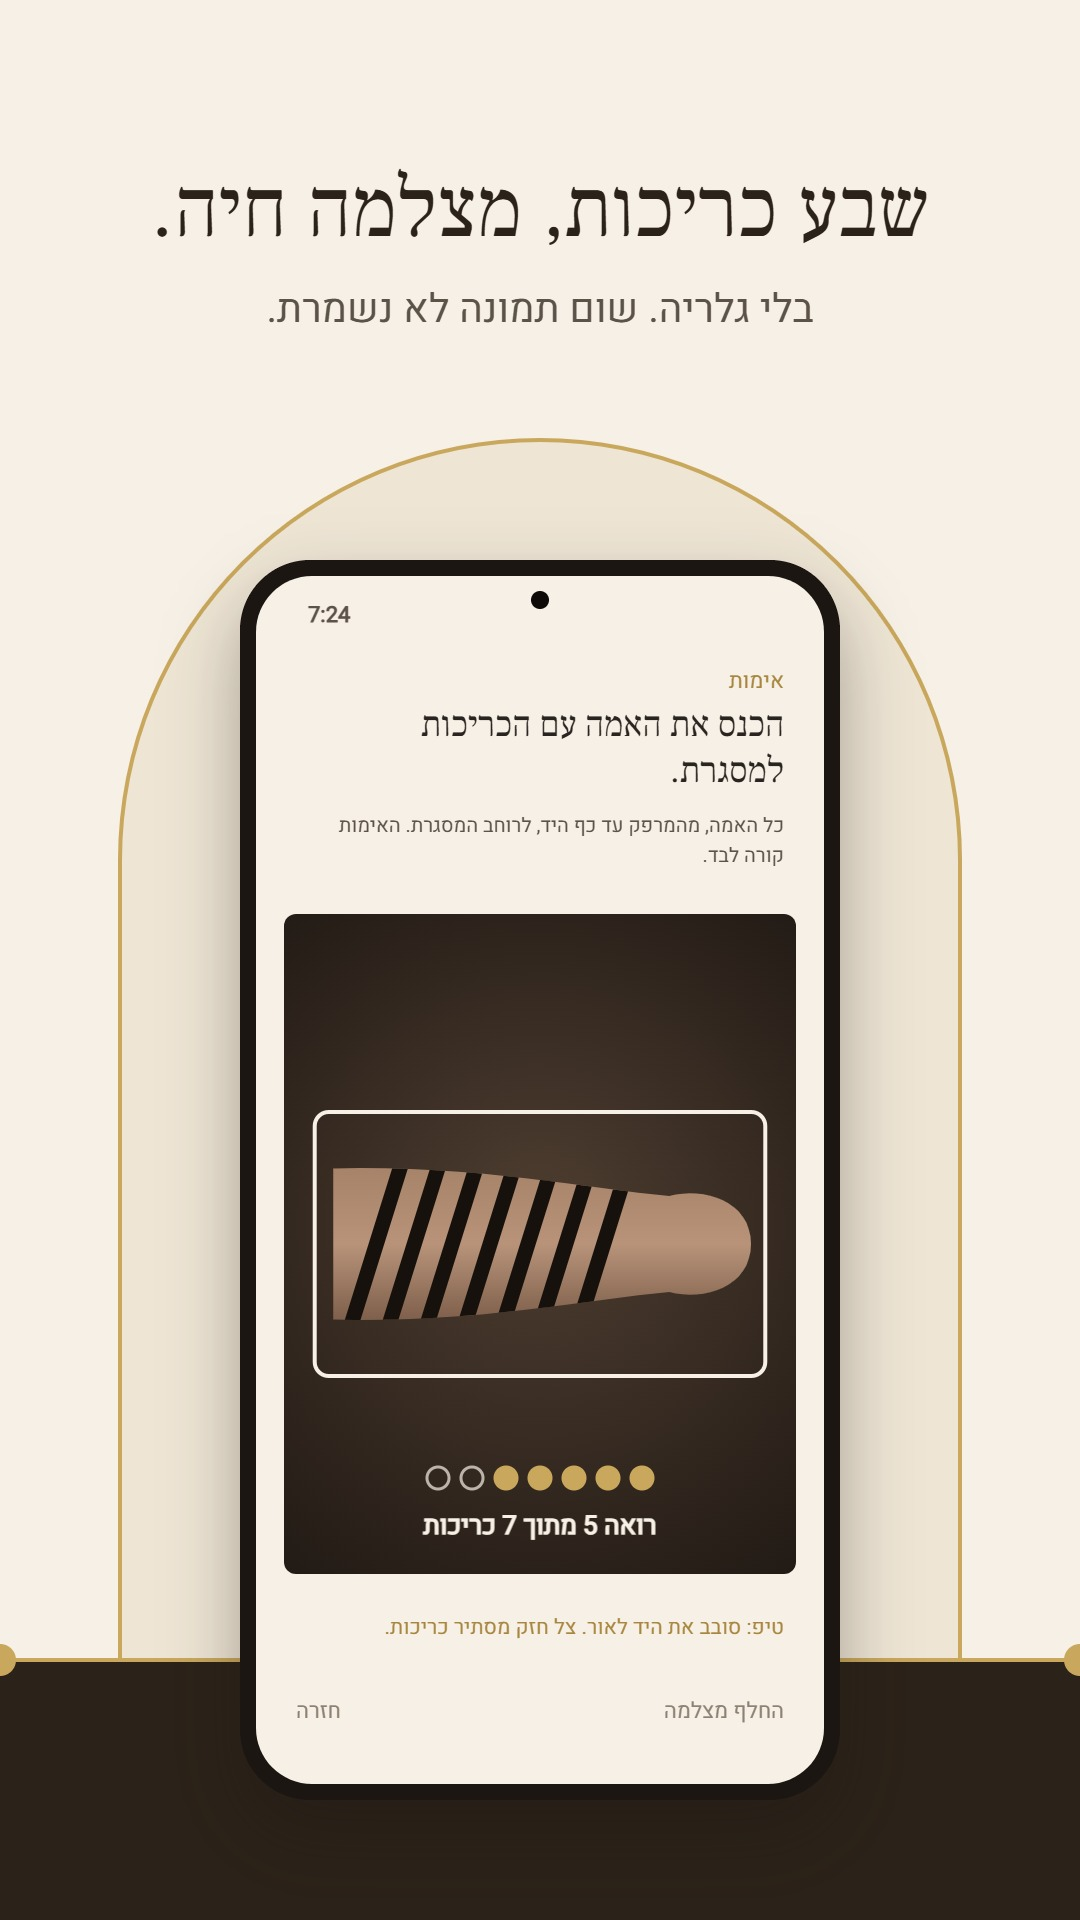
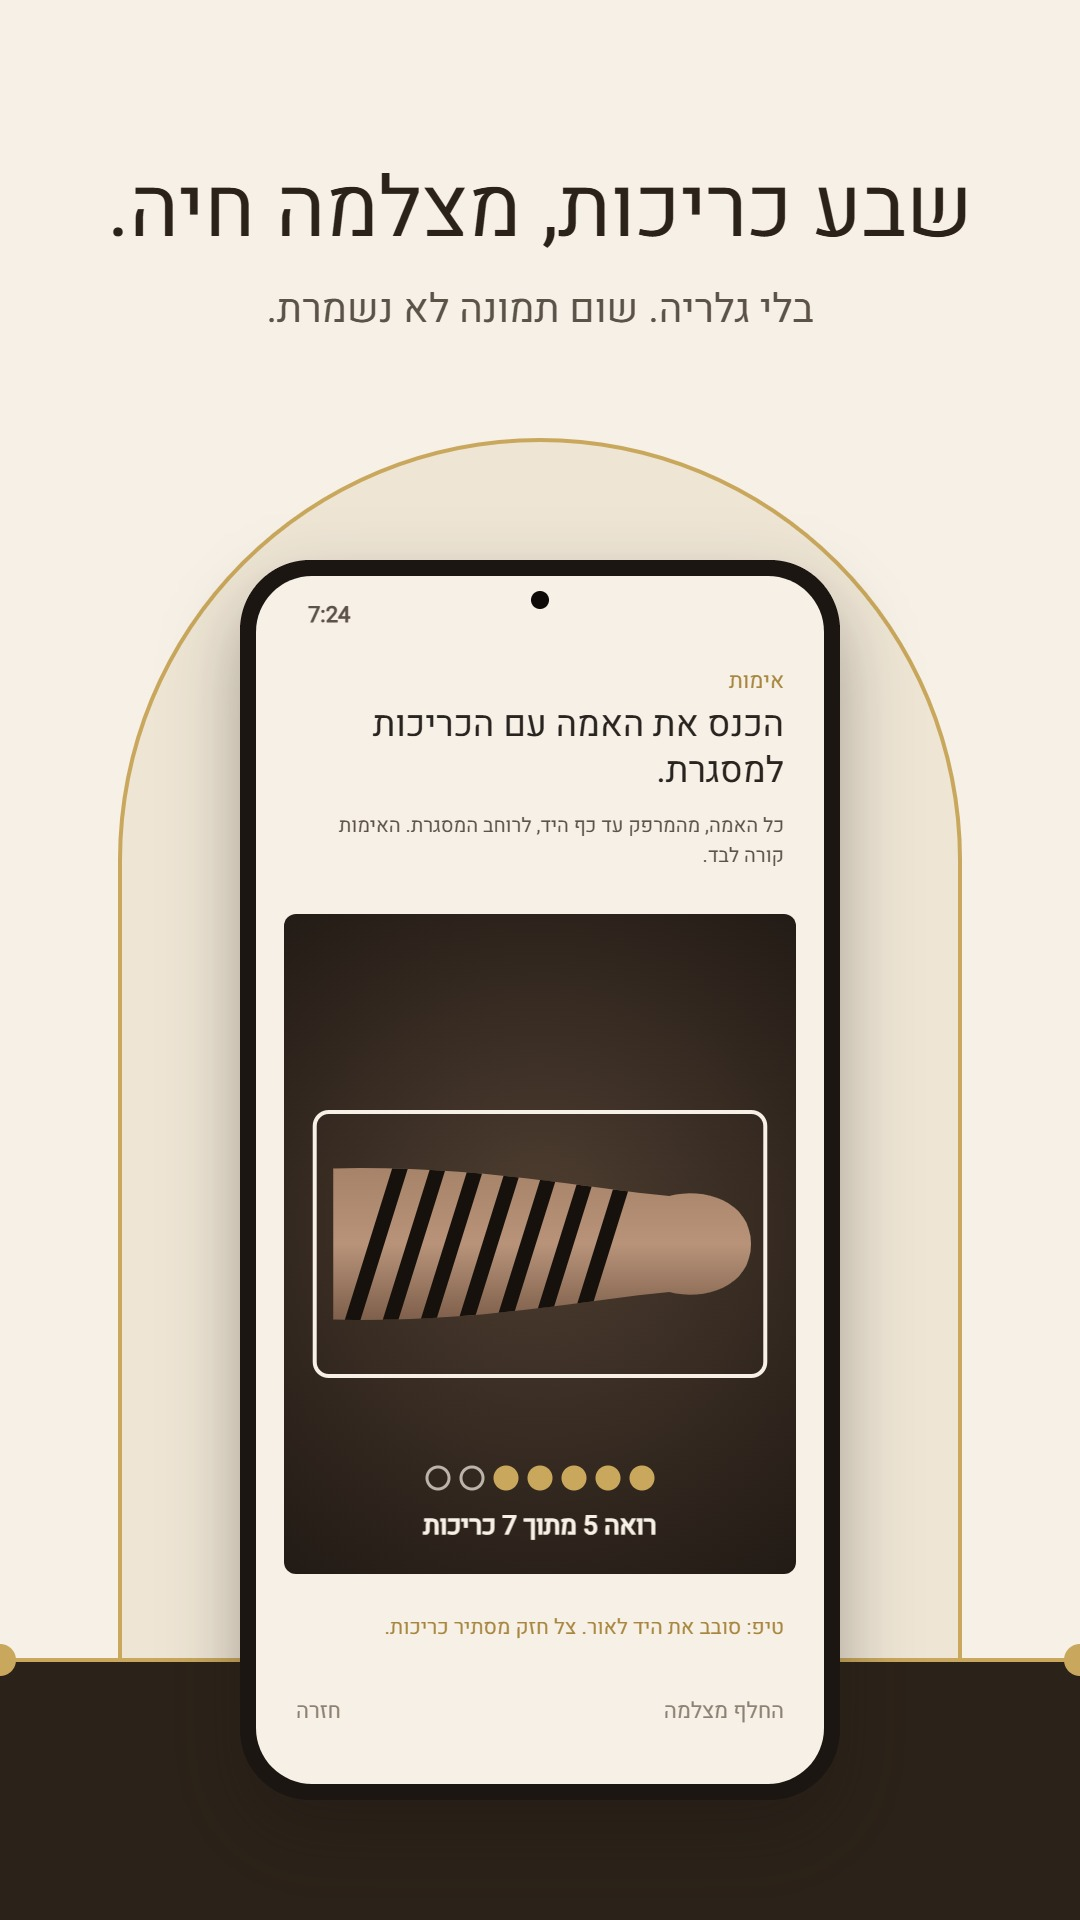
One font in every page, the siddur too: prayer text in Heebo (it covers all niqqud; neither font had cantillation), Frank Ruhl removed from the app; kept in art/fonts for ads only; store strip in Heebo; v2.8.3

diff --git a/store/strip.html b/store/strip.html
@@ -140,7 +140,7 @@ function lockScreen(s) {
   text("יום רביעי", cx, s.y + 112, f(22, 500), P.GoldDeep);
   darkArch(cx, s.y + 140, 150, 184);
   lock(cx, s.y + 240, 64, 0);
-  let y = para("עוד לא הנחת תפילין היום.", cx, s.y + 400, f(44, 500, SERIF), P.Ink, 470, 54);
+  let y = para("עוד לא הנחת תפילין היום.", cx, s.y + 400, f(44, 500, SANS), P.Ink, 470, 54);
   y = para("הטלפון סגור עד שמראים למצלמה את האמה עם הכריכות.", cx, y + 14, f(24), P.InkSoft, 470, 36);
   // the arc
   const aw = 470, ah = 92, ax = cx - aw / 2, ay = y + 40;
@@ -186,7 +186,7 @@ function arm(bx, by, bw, bh) {
 function verifyScreen(s, verified) {
   const cx = s.x + s.w / 2, r = s.x + s.w - 40;
   text("אימות", r, s.y + 112, f(22, 500), P.GoldDeep, "right");
-  let y = para("הכנס את האמה עם הכריכות למסגרת.", r, s.y + 160, f(36, 500, SERIF), P.Ink, 480, 46, "right");
+  let y = para("הכנס את האמה עם הכריכות למסגרת.", r, s.y + 160, f(36, 500, SANS), P.Ink, 480, 46, "right");
   y = para("כל האמה, מהמרפק עד כף היד, לרוחב המסגרת. האימות קורה לבד.", r, y + 4, f(20), P.InkSoft, 480, 30, "right");
   const bx = s.x + 28, by = y + 22, bw = s.w - 56, bh = s.h - (y + 22 - s.y) - 210;
   x.save(); rr(bx, by, bw, bh, 12); x.clip();
@@ -199,7 +199,7 @@ function verifyScreen(s, verified) {
     x.fillStyle = P.ChocolateDeep; x.fillRect(bx, by, bw, bh);
     darkArch(cx, by + bh / 2 - 250, 170, 208);
     lock(cx, by + bh / 2 - 130, 80, 1);
-    text("הנחת. יום טוב.", cx, by + bh / 2 + 70, f(46, 500, SERIF), P.Cream);
+    text("הנחת. יום טוב.", cx, by + bh / 2 + 70, f(46, 500, SANS), P.Cream);
     text("זוהו 7 כריכות על האמה.", cx, by + bh / 2 + 122, f(24), P.CreamDeep);
   } else {
     rr(gx, gy, gw, gh, 14); x.strokeStyle = P.Cream; x.lineWidth = 4; x.stroke();
@@ -226,7 +226,7 @@ function homeScreen(s) {
   // top bar: time chip on the right (start in RTL), title in the middle, gear on the left
   rr(R - 94, s.y + 74, 94, 46, 14); x.fillStyle = P.CreamDeep; x.fill(); x.strokeStyle = P.Sand; x.lineWidth = 2; x.stroke();
   text("07:24", R - 47, s.y + 105, f(20, 600), P.InkSoft);
-  text("בוקר אור", cx, s.y + 108, f(32, 500, SERIF), P.Ink);
+  text("בוקר אור", cx, s.y + 108, f(32, 500, SANS), P.Ink);
   dot(L + 26, s.y + 97, 23, P.CreamDeep, P.Sand, 2); dot(L + 26, s.y + 97, 8, null, P.Ink, 3);
   text("יום רביעי", cx, s.y + 160, f(19, 500), P.GoldDeep);
   // hero card
@@ -234,7 +234,7 @@ function homeScreen(s) {
   rr(L, hy, R - L, hh, 34); x.fillStyle = P.Cream; x.fill(); x.strokeStyle = P.Gold; x.lineWidth = 2.5; x.stroke();
   darkArch(cx, hy + 26, 116, 144);
   lock(cx, hy + 104, 50, 1);
-  text("הנחת. היום שלך.", cx, hy + 222, f(32, 500, SERIF), P.Ink);
+  text("הנחת. היום שלך.", cx, hy + 222, f(32, 500, SANS), P.Ink);
   text("האימות עבר, והטלפון פתוח עד מחר בבוקר.", cx, hy + 262, f(19), P.InkSoft);
   darkButton(cx, hy + 288, R - L - 44, 62, "אושר להיום");
   // calendar card
@@ -246,7 +246,7 @@ function homeScreen(s) {
   x.moveTo(fx, fy - 18); x.bezierCurveTo(fx + 14, fy - 4, fx + 12, fy + 14, fx, fy + 16);
   x.bezierCurveTo(fx - 12, fy + 14, fx - 14, fy - 2, fx - 4, fy - 8); x.closePath(); x.fill(); x.restore();
   text("הרצף שלך", R - 70, cy0 + 60, f(23, 600), P.Ink, "right");
-  text("23 ימים", L + 24, cy0 + 62, f(30, 500, SERIF), P.GoldDeep, "left");
+  text("23 ימים", L + 24, cy0 + 62, f(30, 500, SANS), P.GoldDeep, "left");
   const letters = ["א", "ב", "ג", "ד", "ה", "ו", "ש"];
   const colW = (R - L - 40) / 7;
   const colX = i => R - 20 - colW * (i + 0.5); // Sunday on the right
@@ -289,7 +289,7 @@ function widgetScreen(s) {
   rr(wx, wy, ww, wh, 34); x.fillStyle = P.Chocolate; x.fill(); x.restore();
   rr(wx, wy, ww, wh, 34); x.strokeStyle = P.Gold; x.lineWidth = 2.5; x.stroke();
   text("וּקְשַׁרְתָּם", cx, wy + 62, f(22, 500), P.Gold);
-  text("עוד לא הנחת", cx, wy + 136, f(48, 500, SERIF), P.Cream);
+  text("עוד לא הנחת", cx, wy + 136, f(48, 500, SANS), P.Cream);
   text("נשארו 2 דחיות  ●●○", cx, wy + 190, f(24), P.Sand);
   text("רצף: 23 ימים", cx, wy + 248, f(24, 500), P.GoldSoft);
   // app icons, generic
@@ -327,7 +327,7 @@ function render() {
     archPath(ox + 120, 440, 840, BASE - 440);
     x.fillStyle = P.CreamDeep; x.fill();
     x.strokeStyle = P.Gold; x.lineWidth = 4; x.stroke();
-    text(fr.h, cx, 236, f(84, 500, SERIF), P.Chocolate);
+    text(fr.h, cx, 236, f(84, 500, SANS), P.Chocolate);
     text(fr.sub, cx, 322, f(40), P.InkSoft);
   });
   x.fillStyle = P.Gold; x.fillRect(0, BASE - 2, W * N, 4);

diff --git a/app/src/main/java/app/henachti/ui/Theme.kt b/app/src/main/java/app/henachti/ui/Theme.kt
@@ -45,14 +45,7 @@ object Palette {
     val Bronze: Color get() = GoldDeep
 }
 
-/** Frank Ruhl Libre for titles, Heebo for everything else. Both bundled, both variable weight. */
-val Serif = FontFamily(
-    Font(R.font.frank_ruhl_libre, FontWeight.Light),
-    Font(R.font.frank_ruhl_libre, FontWeight.Normal),
-    Font(R.font.frank_ruhl_libre, FontWeight.Medium),
-    Font(R.font.frank_ruhl_libre, FontWeight.Bold),
-    Font(R.font.frank_ruhl_libre, FontWeight.Black),
-)
+/** Heebo, bundled, variable weight: the one face of the whole app, siddur included. */
 
 val Sans = FontFamily(
     Font(R.font.heebo, FontWeight.Light),
@@ -63,7 +56,6 @@ val Sans = FontFamily(
 )
 
 // One family for the whole interface (Heebo), five sizes (40 / 22 / 16 / 14 / 12), three weights.
-// Frank Ruhl Libre stays only as the reading face of the siddur text (prayerTextStyle below).
 private val HenachtiTypography = Typography(
     displayLarge = TextStyle(fontFamily = Sans, fontWeight = FontWeight.Medium, fontSize = 40.sp, lineHeight = 46.sp),
     displayMedium = TextStyle(fontFamily = Sans, fontWeight = FontWeight.SemiBold, fontSize = 22.sp, lineHeight = 30.sp),
@@ -80,9 +72,9 @@ private val HenachtiTypography = Typography(
     labelSmall = TextStyle(fontFamily = Sans, fontWeight = FontWeight.Medium, fontSize = 12.sp, lineHeight = 17.sp),
 )
 
-/** Reading style for prayer text: serif, large, generous leading. */
+/** Reading style for prayer text: the same face as the app, large, with generous leading for the vowel marks. */
 fun prayerTextStyle(sizeSp: Int): TextStyle =
-    TextStyle(fontFamily = Serif, fontWeight = FontWeight.Normal, fontSize = sizeSp.sp, lineHeight = (sizeSp * 1.75f).sp)
+    TextStyle(fontFamily = Sans, fontWeight = FontWeight.Normal, fontSize = sizeSp.sp, lineHeight = (sizeSp * 1.8f).sp)
 
 @Composable
 fun HenachtiTheme(content: @Composable () -> Unit) {

diff --git a/app/src/main/java/app/henachti/ui/screens/AboutScreen.kt b/app/src/main/java/app/henachti/ui/screens/AboutScreen.kt
@@ -43,7 +43,7 @@ fun AboutScreen(version: String, onBack: () -> Unit) {
             Section("קרדיטים ורישיונות")
             Para("טקסטי הסידור: סידור מצודה (1981), באדיבות Sefaria, רישיון CC-BY. חלקים מתוך \"תורת אמת\", נחלת הכלל. הנוסח המסורתי עצמו הוא נחלת הכלל.")
             Para("חישוב זמנים ולוח עברי: KosherJava Zmanim, רישיון LGPL 2.1.")
-            Para("גופנים: Frank Ruhl Libre ו-Heebo, רישיון SIL Open Font License 1.1.")
+            Para("גופן: Heebo, רישיון SIL Open Font License 1.1.")
             Para("ספריות: AndroidX, Jetpack Compose, CameraX, Kotlin, רישיון Apache 2.0.")
             Para("קוד האפליקציה: רישיון MIT, פתוח לקריאה ב-GitHub.")
             Spacer(Modifier.height(40.dp))

diff --git a/THIRD_PARTY_NOTICES.md b/THIRD_PARTY_NOTICES.md
@@ -23,8 +23,6 @@ source of this app is public, so the library can be replaced by the user as the 
 
 ## Fonts
 
-- Frank Ruhl Libre — Copyright 2015 The Frank Ruhl Libre Project Authors
-  (https://github.com/fontef/frankruhllibre). **SIL Open Font License 1.1**.
 - Heebo — Copyright 2014 The Heebo Project Authors (https://github.com/OdedEzer/heebo).
   **SIL Open Font License 1.1**.
 
